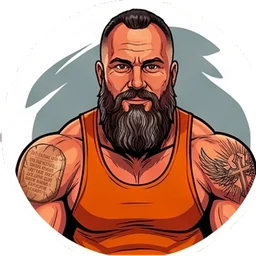
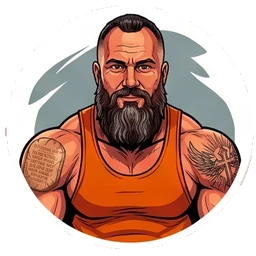
Re-cut the twenty faces so nothing is clipped, and give the button one
The first pass took the biggest connected shape inside each grid cell.
Several stickers touch their neighbours through the artwork, so those
came out as one fused blob that then got cropped to the cell — the flex
pose lost both arms and picked up a strip of the row above it.

Cut on the grid instead, with a radial mask at the sticker's own radius.
Every one is now whole.

CoachFab is the single floating button: it wears the face, sits above
the bottom nav, stays under the sheets, lifts over the workout-in-
progress bar when there is one, and vanishes entirely while a keyboard
is up. No coloured disc behind it and no circular clip — the sticker is
already a disc with its own white ring, and clipping a 56px circle out
of it shaved the arms off every flexing pose.

diff --git a/src/components/CoachFab.tsx b/src/components/CoachFab.tsx
@@ -1,0 +1,83 @@
+"use client";
+
+// The one floating ✦.
+//
+// Dustin, 2026-08-12: "everywhere is fine but you need to be extremely careful
+// where you mount it. it needs to fit on every screen and cannot cover
+// anything." And, on the logger specifically: "when the keyboard comes up, it
+// can cover things."
+//
+// So the rules are in ONE component rather than re-derived at each mount site:
+//
+//   · it sits above the bottom nav, in the safe area, on the right;
+//   · it disappears entirely while a soft keyboard is up — a 52px circle
+//     floating over a numeric keypad is exactly the thing that covers the field
+//     you are typing into;
+//   · it sits UNDER the sheets (z 1100 vs 1200), so opening one never leaves
+//     the button hovering on top of its own panel;
+//   · it wears a face, chosen by surface, so the coach reads as the same
+//     character everywhere instead of a generic sparkle.
+
+import { faceSrc, type Mood } from "@/lib/ai/faces";
+import { useKeyboardInset } from "@/lib/useKeyboardInset";
+
+/** Big enough for the face to read, small enough not to be in the way. */
+const SIZE = 56;
+
+export default function CoachFab({
+  onClick,
+  mood = "neutral",
+  label = "Ask your coach",
+  /** Extra lift, for a screen with something else already in that corner. */
+  liftPx = 0,
+}: {
+  onClick: () => void;
+  mood?: Mood;
+  label?: string;
+  liftPx?: number;
+}) {
+  const kb = useKeyboardInset();
+  // Not "moved up" — gone. There is no position on a phone where a floating
+  // button and an open keyboard both fit without one covering something.
+  if (kb > 0) return null;
+
+  return (
+    <button
+      onClick={onClick}
+      aria-label={label}
+      className="fixed flex items-center justify-center"
+      style={{
+        right: 16,
+        // The extra var is set by SessionDock while a workout is in progress: that
+        // bar lives in the same corner and the coach would sit on its text.
+        bottom: `calc(env(safe-area-inset-bottom) + ${82 + liftPx}px + var(--sym-dock-lift, 0px))`,
+        zIndex: 1100,
+        width: SIZE,
+        height: SIZE,
+        padding: 0,
+        border: "none",
+        // No coloured disc behind it and no circular clip. The sticker already
+        // IS a disc with its own white ring, and clipping a 56px circle out of
+        // it shaved the arms off every flexing pose. The drop-shadow follows
+        // the alpha, so it hugs the artwork instead of boxing it.
+        background: "transparent",
+        WebkitTapHighlightColor: "transparent",
+      }}
+    >
+      {/* eslint-disable-next-line @next/next/no-img-element */}
+      <img
+        src={faceSrc(mood)}
+        alt=""
+        width={SIZE}
+        height={SIZE}
+        style={{
+          width: SIZE,
+          height: SIZE,
+          objectFit: "contain",
+          display: "block",
+          filter: "drop-shadow(0 3px 8px rgba(0,0,0,0.35))",
+        }}
+      />
+    </button>
+  );
+}
